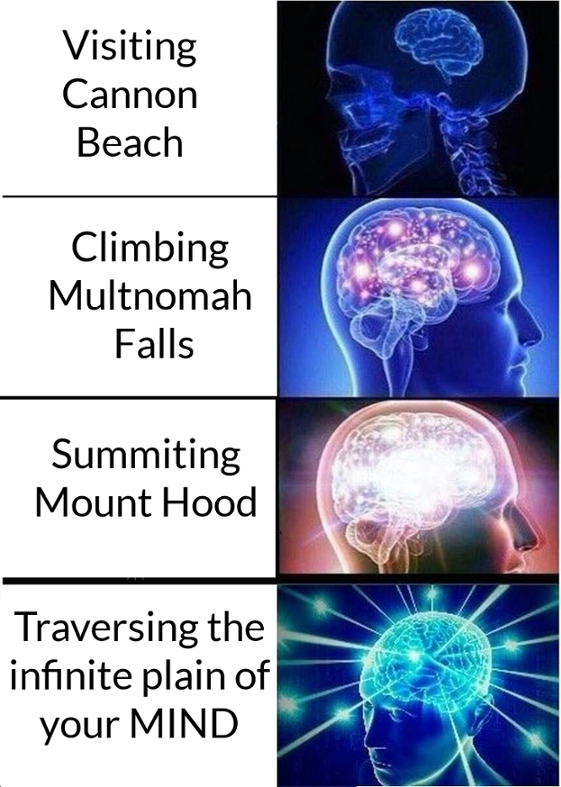
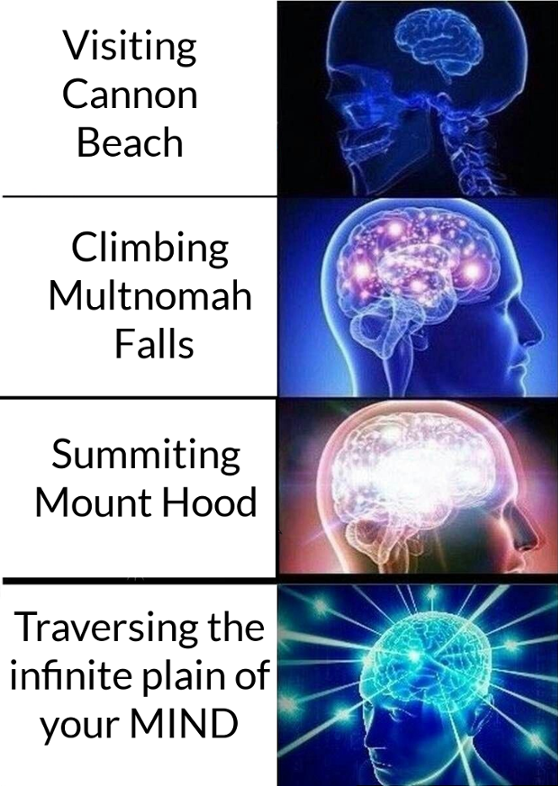
fix answer image warp

diff --git a/css/styles.css b/css/styles.css
@@ -119,7 +119,8 @@ img#tree-icon {
 }
 
 .answer-img {
-  width: 100%;
+  width: auto;
+  height: auto;
   max-width: 800px;
   max-height: 700px;
   padding: 25px;
